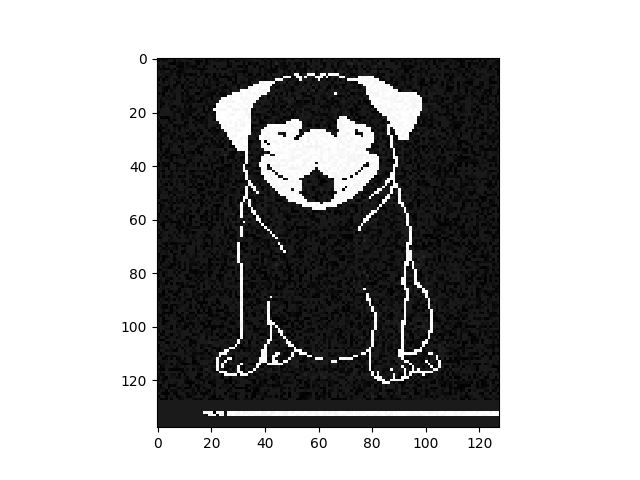
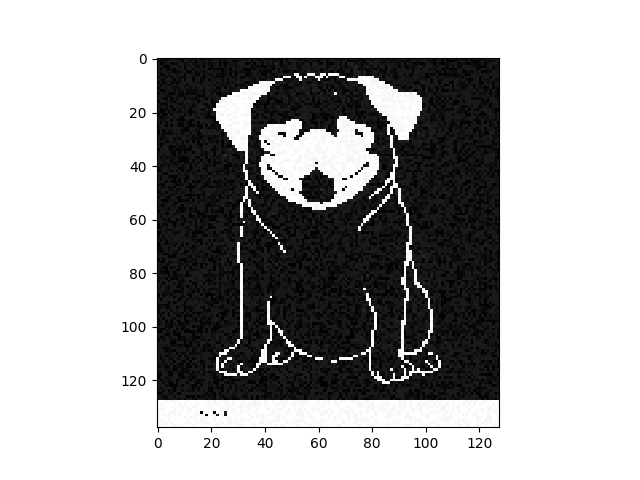
test

diff --git a/test.py b/test.py
@@ -1,0 +1,120 @@
+import numpy as np
+import matplotlib.pyplot as plt
+from scipy.misc import imread
+
+prop = 0.7
+varSigma = 0.1
+image = imread('images/pug_binary.jpg')
+image = image / 255
+m = image.shape[0]
+n = image.shape[1]
+#this list is [h, beta,eta]
+const_list = [0,.1,.02]
+
+
+def add_gaussian_noise(image, prop, varSigma):
+    N = int(np.round(np.prod(image.shape) * prop))
+    index = np.unravel_index(np.random.permutation(np.prod(image.shape))[1:N], image.shape)
+    e = varSigma * np.random.random(np.prod(image.shape)).reshape(image.shape)
+    image2 = np.copy(image).astype('float')
+    image2[index] += e[index]
+    return image2
+
+def get_neighbours(i,j,M,N,size=4):
+    if size==4:
+        if (i==0 and j==0):
+            n=[(0,1), (1,0)]
+        elif i==0 and j==N-1:
+            n=[(0,N-2), (1,N-1)]
+        elif i==M-1 and j==0:
+            n=[(M-1,1), (M-2,0)]
+        elif i==M-1 and j==N-1:
+            n=[(M-1,N-2), (M-2,N-1)]
+        elif i==0:
+            n=[(0,j-1), (0,j+1), (1,j)]
+        elif i==M-1:
+            n=[(M-1,j-1), (M-1,j+1), (M-2,j)]
+        elif j==0:
+            n=[(i-1,0), (i+1,0), (i,1)]
+        elif j==N-1:
+            n=[(i-1,N-1), (i+1,N-1), (i,N-2)]
+        else:
+            n=[(i-1,j), (i+1,j), (i,j-1), (i,j+1)]
+        return n
+    if size==8:
+        if (i==0 and j==0):
+            n=[(0,1), (1,0), (1,1)]
+        elif i==0 and j==N-1:
+            n=[(0,N-2), (1,N-1), (1, N-2)]
+        elif i==M-1 and j==0:
+            n=[(M-1,1), (M-2,0), (M-2,1)]
+        elif i==M-1 and j==N-1:
+            n=[(M-1,N-2), (M-2,N-1), (M-2,N-2)]
+        elif i==0:
+            n=[(0,j-1), (0,j+1), (1,j), (1,j-1), (1,j+1)]
+        elif i==M-1:
+            n=[(M-1,j-1), (M-1,j+1), (M-2,j), (M-2,j-1), (M-2,j+1)]
+        elif j==0:
+            n=[(i-1,0), (i+1,0), (i,1), (i+1,1), (i-1,1)]
+        elif j==N-1:
+            n=[(i-1,N-1), (i+1,N-1), (i,N-2), (i-1,N-2), (i+1,N-2)]
+        else:
+            n=[(i-1,j), (i+1,j), (i,j-1), (i,j+1), (i+1,j+1), (i-1,j-1), (i-1,j+1), (i+1,j-1)]
+        return n
+
+def local_energy(i, j, visable_image, hidden_image):# h* \sum(x_i) -beta* \sum(x_i x_j) -eta \sum(x_i y_i)
+    global m ,n, const_list
+    neighbours = get_neighbours(i, j, m, n, 8)
+    total_pixels = m*n
+    h = const_list[0]
+    beta = const_list[1]
+    eta = const_list[2]
+    x_sum = hidden_image[i, j]
+    x_neighbord_sum = hidden_image[i, j] * np.sum((list(map(lambda x: hidden_image[x[0],x[1]], neighbours))))
+    x_y_sum = visable_image[i, j] *hidden_image[i, j]
+    energy = (h * x_sum - beta * x_neighbord_sum - eta *x_y_sum) / total_pixels
+    return energy
+
+def calculate_total_energy(visable_image, hidden_image):
+    global m, n 
+    energy = 0.
+    for i in range(m):
+        for j in range(n):
+            energy += local_energy(i, j, visable_image, hidden_image)
+    return energy
+
+
+def icm(i, j, total_energy, visable_image, hidden_image):
+    energy = local_energy(i, j, visable_image, hidden_image)
+    other_energy = total_energy - energy
+    # print("other", other_energy)
+    #flip
+    temp_hidden_image = np.copy(hidden_image)
+    if(temp_hidden_image[i,j]>1):
+        temp_hidden_image[i,j] = 0
+    else:
+        temp_hidden_image[i,j] = 1
+    temp_energy = local_energy(i, j, visable_image, temp_hidden_image)
+    # print("energy", energy)
+    # print("temp_energy", temp_energy)
+    if energy > temp_energy:
+        print("flip")
+        if(hidden_image[i,j]>1):
+            hidden_image[i,j] = 0
+        else:
+            hidden_image[i,j] = 1
+        flipped_energy = local_energy(i, j, visable_image, hidden_image)  
+        total_energy = other_energy + flipped_energy
+
+image_noise = add_gaussian_noise(image, prop, varSigma)
+hidden_image = np.copy(image_noise)
+total_energy = calculate_total_energy(image, hidden_image)
+# print("init", total_energy)
+for times in range(1):
+    for i in range(2):
+        for j in range(n):
+            icm(i, j, total_energy, image, hidden_image)
+            # print(total_energy)
+plt.imshow(hidden_image, cmap='Greys')
+plt.savefig('result/restore.png')
+

diff --git a/task1.py b/task1.py
@@ -2,6 +2,48 @@ import numpy as np
 import matplotlib.pyplot as plt
 from scipy.misc import imread
 
+def get_neighbours(i,j,M,N,size=4):
+    if size==4:
+        if (i==0 and j==0):
+            n=[(0,1), (1,0)]
+        elif i==0 and j==N-1:
+            n=[(0,N-2), (1,N-1)]
+        elif i==M-1 and j==0:
+            n=[(M-1,1), (M-2,0)]
+        elif i==M-1 and j==N-1:
+            n=[(M-1,N-2), (M-2,N-1)]
+        elif i==0:
+            n=[(0,j-1), (0,j+1), (1,j)]
+        elif i==M-1:
+            n=[(M-1,j-1), (M-1,j+1), (M-2,j)]
+        elif j==0:
+            n=[(i-1,0), (i+1,0), (i,1)]
+        elif j==N-1:
+            n=[(i-1,N-1), (i+1,N-1), (i,N-2)]
+        else:
+            n=[(i-1,j), (i+1,j), (i,j-1), (i,j+1)]
+        return n
+    if size==8:
+        if (i==0 and j==0):
+            n=[(0,1), (1,0), (1,1)]
+        elif i==0 and j==N-1:
+            n=[(0,N-2), (1,N-1), (1, N-2)]
+        elif i==M-1 and j==0:
+            n=[(M-1,1), (M-2,0), (M-2,1)]
+        elif i==M-1 and j==N-1:
+            n=[(M-1,N-2), (M-2,N-1), (M-2,N-2)]
+        elif i==0:
+            n=[(0,j-1), (0,j+1), (1,j), (1,j-1), (1,j+1)]
+        elif i==M-1:
+            n=[(M-1,j-1), (M-1,j+1), (M-2,j), (M-2,j-1), (M-2,j+1)]
+        elif j==0:
+            n=[(i-1,0), (i+1,0), (i,1), (i+1,1), (i-1,1)]
+        elif j==N-1:
+            n=[(i-1,N-1), (i+1,N-1), (i,N-2), (i-1,N-2), (i+1,N-2)]
+        else:
+            n=[(i-1,j), (i+1,j), (i,j-1), (i,j+1), (i+1,j+1), (i-1,j-1), (i-1,j+1), (i+1,j-1)]
+        return n
+
 def add_gaussian_noise(image, prop, varSigma):
     N = int(np.round(np.prod(image.shape) * prop))
     index = np.unravel_index(np.random.permutation(np.prod(image.shape))[1:N], image.shape)
@@ -22,7 +64,7 @@ def add_energy_contribution(visible_arr,hidden_arr, x_val,y_val, const_list):
     beta = const_list[1]
     eta = const_list[2]
     total_pixels = hidden_arr.shape[0]*hidden_arr.shape[1]
-    energy = h_val*hidden_arr[x_val,y_val]
+    energy = h_val*np.sum(hidden_arr[x_val])
     energy += -eta*hidden_arr[x_val,y_val]*visible_arr[x_val,y_val]
     x_neighbor = [-1,1]
     y_neighbor = [-1,1]
@@ -31,7 +73,8 @@ def add_energy_contribution(visible_arr,hidden_arr, x_val,y_val, const_list):
             x_n = check_limit(x_val +i,hidden_arr.shape[0])
             y_n = check_limit(y_val +j, hidden_arr.shape[1])
             
-            energy += -beta*hidden_arr[x_val,y_val]*hidden_arr[x_n,y_n]
+            
+            energy += -beta*np.sum(hidden_arr[x_val]*hidden_arr[x_n])
     energy = energy/total_pixels
     return energy
 
@@ -57,10 +100,9 @@ def icm_single_pixel(visible_arr, hidden_arr, px_x, px_y, total_energy, const_li
         should_flip = True
         total_energy = other_energy + flipped_energy
         hidden_arr = new_hidden_arr
-        #print percent_pixel_flipped(hidden_arr, visible_arr)
     else:
         should_flip = False
-    
+    print('total', total_energy)
     return (hidden_arr,should_flip,total_energy)
     #return (should_flip, hidden_arr, total_energy)
 
@@ -77,18 +119,19 @@ image2 = add_gaussian_noise(image, prop, varSigma)
 const_list = [0,.1,.02]
 noisy_img_arr = np.copy(image2)
 hidden_image = np.copy(noisy_img_arr)
-total_energy= calculate_total_energy(noisy_img_arr, hidden_image, const_list)
+total_energy= calculate_total_energy(image, hidden_image, const_list)
 
 energy_this_round = total_energy
 for sim_round in range(6):
     for i in range(hidden_image.shape[0]):
         for j in range(hidden_image.shape[1]):
-            hidden_image,should_flip,total_energy = icm_single_pixel(noisy_img_arr,hidden_image,i,j, total_energy,const_list)
+            hidden_image,should_flip,total_energy = icm_single_pixel(image,hidden_image,i,j, total_energy,const_list)
         #print percent_pixel_flipped(hidden_image, lena_arr)
+            print(total_energy, energy_this_round)
             if (total_energy - energy_this_round) == 0:
+                
                 print("Algorithm converged")
                 break
             energy_this_round = total_energy
 plt.imshow(hidden_image, cmap='Greys')
 plt.savefig('result/restore.png')
-
